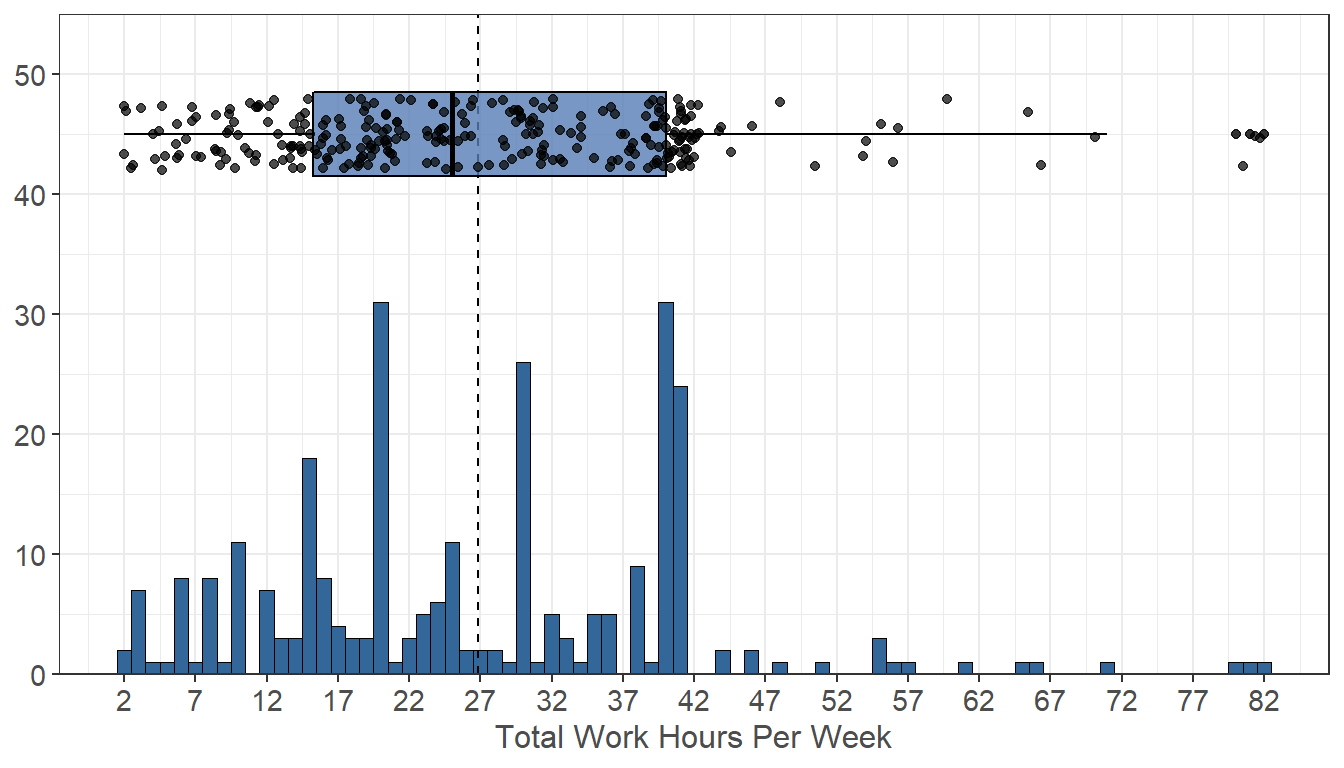
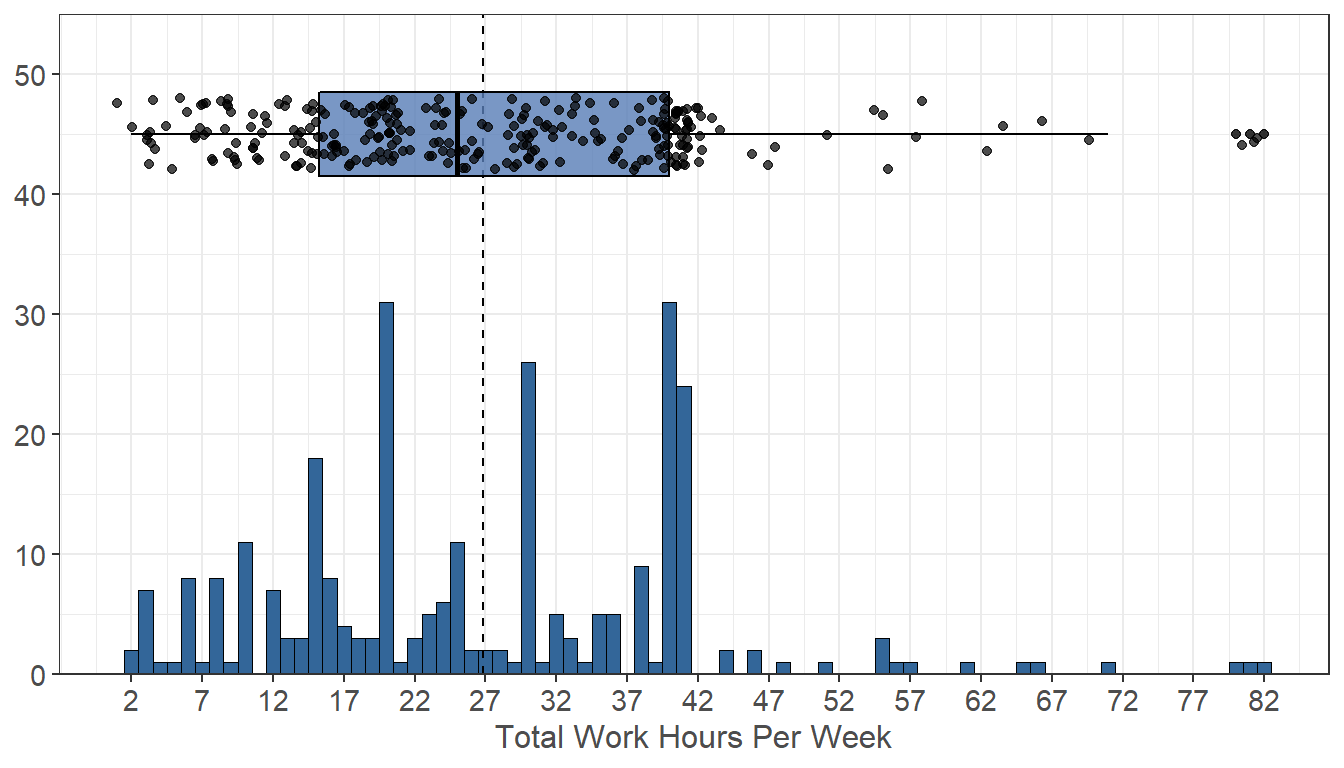
wrapped up initial campus analysis

diff --git a/Campus_Workload.html b/Campus_Workload.html
@@ -397,21 +397,26 @@ div.tocify {
 <p>The following is a comparison across the 3 campuses (Chico, Fresno, and Northridge) for information relating to the workload taken on by students, both academic and non-academic.</p>
 <div id="paid-hours-per-week" class="section level2">
 <h2>Paid Hours Per Week</h2>
-<p><img src="Campus_Workload_files/figure-html/unnamed-chunk-2-1.png" width="729.6" style="display: block; margin: auto;" /></p>
+<p><img src="Campus_Workload_files/figure-html/unnamed-chunk-2-1.png" width="816" style="display: block; margin: auto;" /></p>
 </div>
 <div id="unpaid-hours-per-week" class="section level2">
 <h2>Unpaid Hours Per Week</h2>
-<p><img src="Campus_Workload_files/figure-html/unnamed-chunk-3-1.png" width="768" style="display: block; margin: auto;" /></p>
+<p><img src="Campus_Workload_files/figure-html/unnamed-chunk-3-1.png" width="816" style="display: block; margin: auto;" /></p>
 </div>
 <div id="academic-hours" class="section level2">
 <h2>Academic Hours</h2>
-<p><img src="Campus_Workload_files/figure-html/unnamed-chunk-4-1.png" width="672" style="display: block; margin: auto;" /></p>
+<p><img src="Campus_Workload_files/figure-html/unnamed-chunk-4-1.png" width="672" style="display: block; margin: auto;" /> <em>Note: values corresponding to “22+” were rounded to 22.</em></p>
+<p>Looking at the academic hours across each campus, it seems that the distribution seems very similar for each. CSU Chico has an average unit workload of 40.69 units, and a median of 42 units. CSU Fresno has an average unit workload of 40.99 units, and a median of 42 units. CSU Northridge has an average unit workload of 41.2 units, and a median of 42 units.</p>
 </div>
 <div id="non-academic-hours" class="section level2">
 <h2>Non-Academic Hours</h2>
+<p><img src="Campus_Workload_files/figure-html/unnamed-chunk-5-1.png" width="672" style="display: block; margin: auto;" /> <em>Note: values corresponding to “41+” were rounded to 41.</em></p>
+<p>Looking at the non-academic hours across each campus, again it seems that the distribution are very similar for each. CSU Chico has an average non-academic workload of 27.86 hours, and a median of 28 hours. CSU Fresno has an average non-academic workload of 26.39 hours, and a median of 25 hours. CSU Northridge has an average non-academic workload of 26.2 hours, and a median of 24 hours.</p>
 </div>
 <div id="total-workload-hours" class="section level2">
 <h2>Total Workload Hours</h2>
+<p><img src="Campus_Workload_files/figure-html/unnamed-chunk-6-1.png" width="672" style="display: block; margin: auto;" /> <em>Note: values corresponding to “41+” were rounded to 41, as well as values corresponding to “22+” being rounded to 22.</em></p>
+<p>Looking at the total workload hours across each campus, again it seems that the distribution are very similar for each. CSU Chico has an average total workload of 60.31 hours, and a median of 60.5 hours. CSU Fresno has an average total workload of 60.53 hours, and a median of 60 hours. CSU Northridge has an average total workload of 59.26 hours, and a median of 57 hours. A small number of students also claim to work over 100 hours per week across academic and non-academic jobs.</p>
 <hr />
 </div>
 <div id="student-demographics" class="section level2">

diff --git a/Workload.html b/Workload.html
@@ -435,7 +435,7 @@ div.tocify {
 </div>
 <div id="total-workload" class="section level2">
 <h2>Total Workload</h2>
-<p>Below is a combination of all worked hours per week, both academic and non-academic. This includes units (3 hr/unit), paid, and unpaid worked hours. <img src="Workload_files/figure-html/unnamed-chunk-11-1.png" width="672" style="display: block; margin: auto;" /> The average number of total hours worked per week (denoted by the dotted line) is 32.84, while the median is 32 hours. The majority of students do seem to be working part time in total, with 15 hours being most common (36 people) and 12 hours following that (24 people). Only a small number of people claim to be working (both job and school) more than 60 hours per week.</p>
+<p>Below is a combination of all worked hours per week, both academic and non-academic. This includes units (3 hr/unit), paid, and unpaid worked hours. <img src="Workload_files/figure-html/unnamed-chunk-11-1.png" width="768" style="display: block; margin: auto;" /> The average number of total hours worked per week (denoted by the dotted line) is 60.06, while the median is 60 hours. The majority of students do seem to be working over full-time in total, with 45 hours being most common (35 people) and 36 hours following that (26 people).</p>
 </div>
 
 

diff --git a/Campus_Student_Demo.html b/Campus_Student_Demo.html
@@ -405,7 +405,8 @@ div.tocify {
 </div>
 <div id="currently-enrolled-units" class="section level2">
 <h2>Currently Enrolled Units</h2>
-<p><img src="Campus_Student_Demo_files/figure-html/unnamed-chunk-4-1.png" width="672" style="display: block; margin: auto;" /> Looking at the currently enrolled units across each campus, it seems that again the distribution seems very similar for each. CSU Chico has an average 13.56 enrolled units, with a median of 14 units. CSU Fresno has an average 13.66 enrolled units, with a median of 14 units. CSU Northridge has an average 13.73 enrolled units, with a median of 14 units.</p>
+<p><img src="Campus_Student_Demo_files/figure-html/unnamed-chunk-4-1.png" width="672" style="display: block; margin: auto;" /> <em>Note: values corresponding to “22+” were rounded to 22.</em></p>
+<p>Looking at the currently enrolled units across each campus, it seems that again the distribution seems very similar for each. CSU Chico has an average 13.56 enrolled units, with a median of 14 units. CSU Fresno has an average 13.66 enrolled units, with a median of 14 units. CSU Northridge has an average 13.73 enrolled units, with a median of 14 units.</p>
 <hr />
 </div>
 <div id="personal-demographics" class="section level2">
